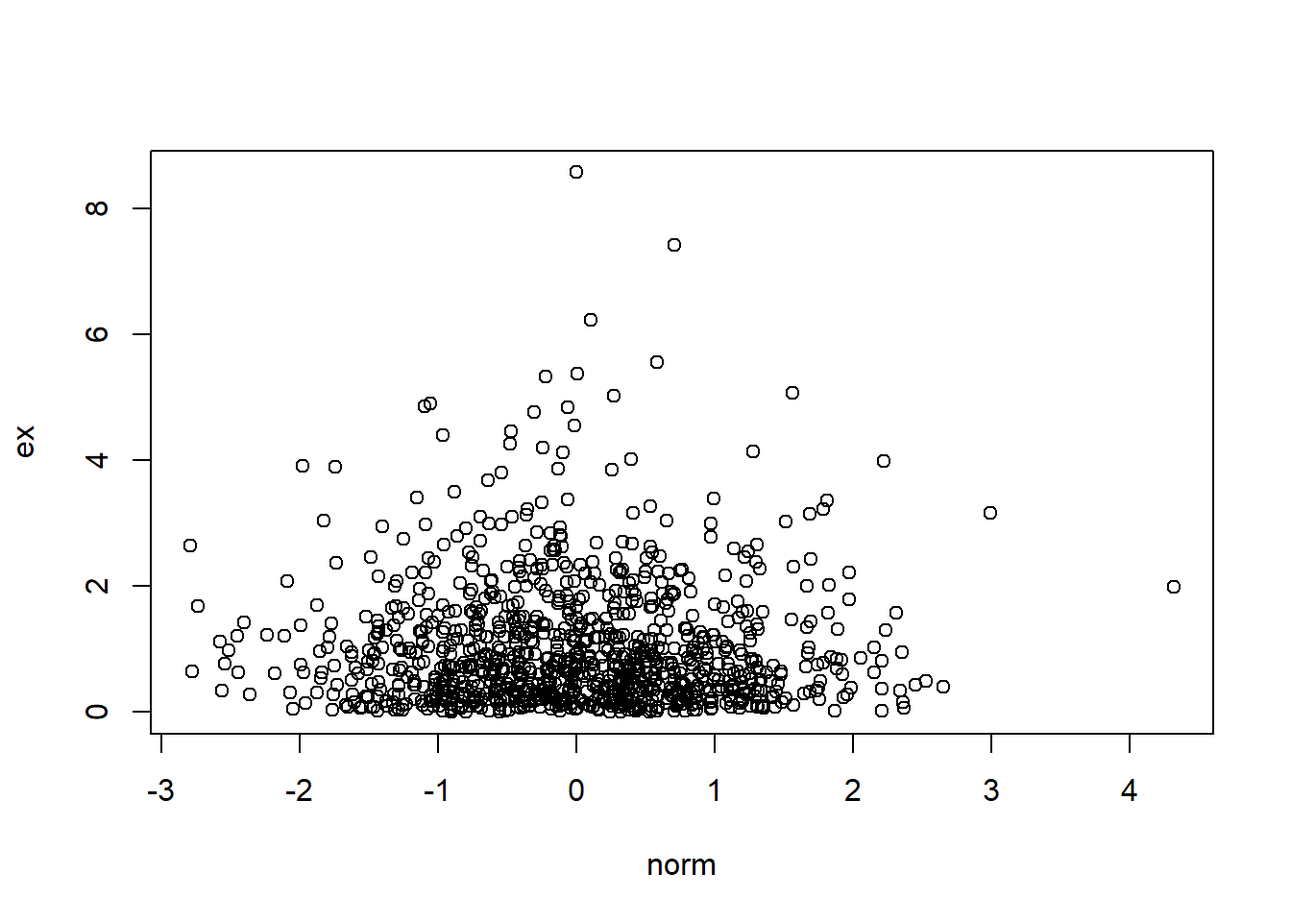
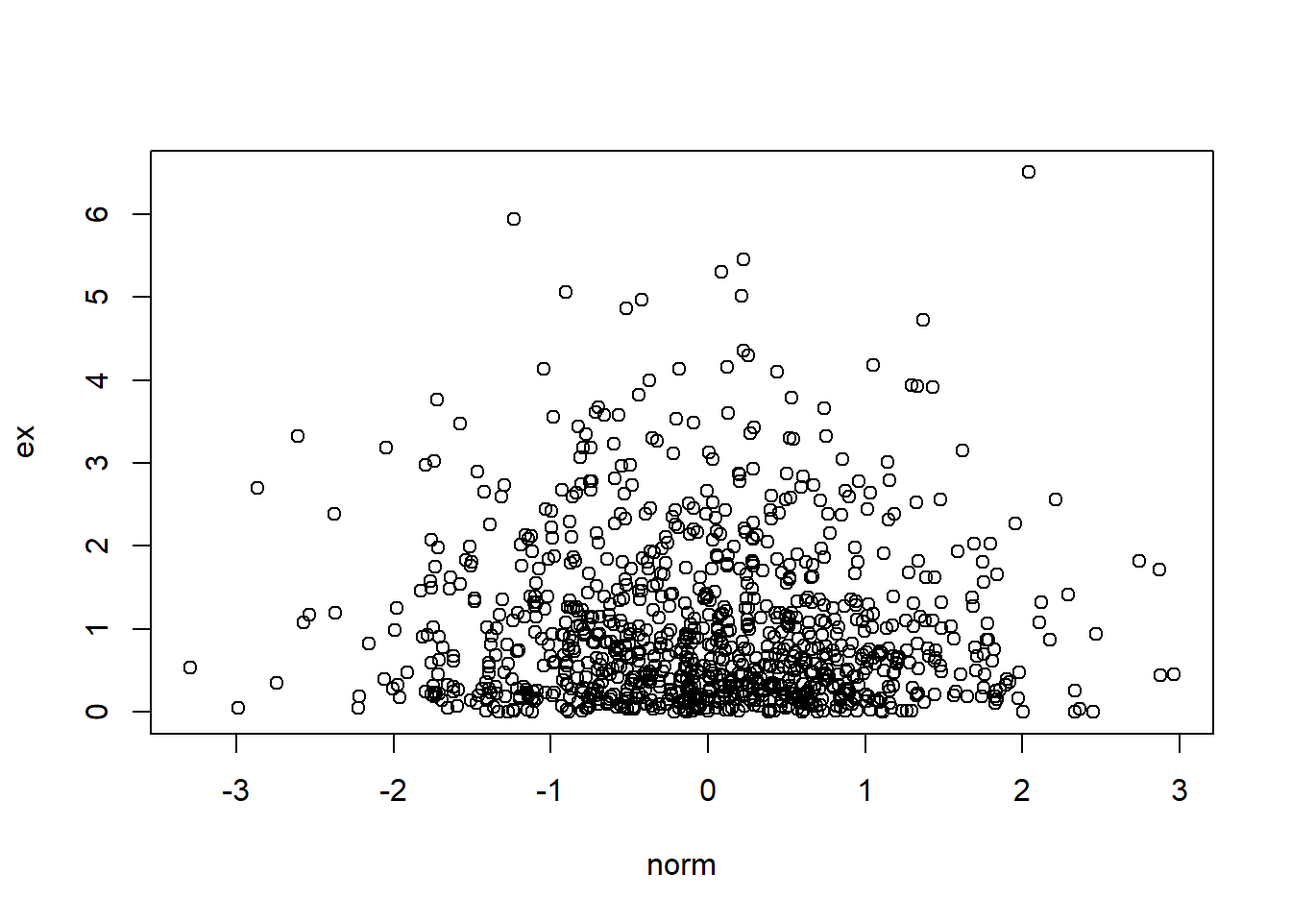
Update return level plots with confidence intervals

diff --git a/GEV.html b/GEV.html
@@ -240,17 +240,17 @@ $se
 [1] 0
 
 $nllh
-[1] 54.39127
+[1] 45.62547
 
 $mle
-[1]  2.4063985  0.3614291 -0.0294855
+[1]  2.25995963  0.33292887 -0.04189382
 
 $se
-[1] 0.04052278 0.02900888 0.07125537</code></pre>
+[1] 0.03763203 0.02716319 0.07596206</code></pre>
 </div>
 <div class="sourceCode cell-code" id="cb14"><pre class="sourceCode r code-with-copy"><code class="sourceCode r"><span id="cb14-1"><a href="#cb14-1" aria-hidden="true" tabindex="-1"></a>fit<span class="sc">$</span>mle</span></code><button title="Copy to Clipboard" class="code-copy-button"><i class="bi"></i></button></pre></div>
 <div class="cell-output cell-output-stdout">
-<pre><code>[1]  2.4063985  0.3614291 -0.0294855</code></pre>
+<pre><code>[1]  2.25995963  0.33292887 -0.04189382</code></pre>
 </div>
 <div class="sourceCode cell-code" id="cb16"><pre class="sourceCode r code-with-copy"><code class="sourceCode r"><span id="cb16-1"><a href="#cb16-1" aria-hidden="true" tabindex="-1"></a><span class="co">#gamGPDfit(x=df,datvar='y',threshold = 2.5,xiFrhs = xiFrhs)</span></span></code><button title="Copy to Clipboard" class="code-copy-button"><i class="bi"></i></button></pre></div>
 </div>
@@ -282,17 +282,17 @@ $se
 [1] 0
 
 $nllh
-[1] 54.39127
+[1] 45.62547
 
 $mle
-[1]  2.4063985  0.3614291 -0.0294855
+[1]  2.25995963  0.33292887 -0.04189382
 
 $se
-[1] 0.04052278 0.02900888 0.07125537</code></pre>
+[1] 0.03763203 0.02716319 0.07596206</code></pre>
 </div>
 <div class="sourceCode cell-code" id="cb21"><pre class="sourceCode r code-with-copy"><code class="sourceCode r"><span id="cb21-1"><a href="#cb21-1" aria-hidden="true" tabindex="-1"></a>fit<span class="sc">$</span>mle</span></code><button title="Copy to Clipboard" class="code-copy-button"><i class="bi"></i></button></pre></div>
 <div class="cell-output cell-output-stdout">
-<pre><code>[1]  2.4063985  0.3614291 -0.0294855</code></pre>
+<pre><code>[1]  2.25995963  0.33292887 -0.04189382</code></pre>
 </div>
 <div class="sourceCode cell-code" id="cb23"><pre class="sourceCode r code-with-copy"><code class="sourceCode r"><span id="cb23-1"><a href="#cb23-1" aria-hidden="true" tabindex="-1"></a>x_fit <span class="ot">&lt;-</span> <span class="fu">seq</span>(<span class="dv">70</span>,<span class="dv">200</span>,<span class="dv">1</span>)</span>
 <span id="cb23-2"><a href="#cb23-2" aria-hidden="true" tabindex="-1"></a>y_fit <span class="ot">&lt;-</span> <span class="fu">c</span>()</span>
@@ -333,7 +333,7 @@ $se
 <span id="cb28-3"><a href="#cb28-3" aria-hidden="true" tabindex="-1"></a></span>
 <span id="cb28-4"><a href="#cb28-4" aria-hidden="true" tabindex="-1"></a>u_1 <span class="sc">%&gt;%</span> <span class="fu">head</span>()</span></code><button title="Copy to Clipboard" class="code-copy-button"><i class="bi"></i></button></pre></div>
 <div class="cell-output cell-output-stdout">
-<pre><code>[1] 0.6232682 0.1676835 0.5488885 0.6451381 0.1123330 0.1110303</code></pre>
+<pre><code>[1] 0.6121441 0.8158624 0.1795660 0.8663926 0.8094380 0.4737421</code></pre>
 </div>
 <div class="sourceCode cell-code" id="cb30"><pre class="sourceCode r code-with-copy"><code class="sourceCode r"><span id="cb30-1"><a href="#cb30-1" aria-hidden="true" tabindex="-1"></a><span class="fu">plot</span>(u_1,u_2)</span></code><button title="Copy to Clipboard" class="code-copy-button"><i class="bi"></i></button></pre></div>
 <div class="cell-output-display">
@@ -584,19 +584,18 @@ Warning in log(1 + xi * ((x - mu)/sig)): NaNs produced</code></pre>
 </div>
 </div>
 <div class="cell">
-<div class="sourceCode cell-code" id="cb64"><pre class="sourceCode r code-with-copy"><code class="sourceCode r"><span id="cb64-1"><a href="#cb64-1" aria-hidden="true" tabindex="-1"></a>U_1 <span class="ot">&lt;-</span> <span class="fu">runif</span>(<span class="dv">10000</span>)</span>
-<span id="cb64-2"><a href="#cb64-2" aria-hidden="true" tabindex="-1"></a>X_1 <span class="ot">&lt;-</span> <span class="sc">-</span><span class="dv">1</span><span class="sc">/</span>(<span class="fu">log</span>(U_1))</span>
-<span id="cb64-3"><a href="#cb64-3" aria-hidden="true" tabindex="-1"></a>U_2 <span class="ot">&lt;-</span> <span class="fu">runif</span>(<span class="dv">10000</span>)</span>
-<span id="cb64-4"><a href="#cb64-4" aria-hidden="true" tabindex="-1"></a>X_2 <span class="ot">&lt;-</span> <span class="sc">-</span><span class="dv">1</span><span class="sc">/</span>(<span class="fu">log</span>(U_2))</span>
-<span id="cb64-5"><a href="#cb64-5" aria-hidden="true" tabindex="-1"></a><span class="fu">plot</span>(X_1<span class="sc">/</span><span class="dv">10000</span>,X_2<span class="sc">/</span><span class="dv">10000</span>)</span></code><button title="Copy to Clipboard" class="code-copy-button"><i class="bi"></i></button></pre></div>
+<div class="sourceCode cell-code" id="cb64"><pre class="sourceCode r code-with-copy"><code class="sourceCode r"><span id="cb64-1"><a href="#cb64-1" aria-hidden="true" tabindex="-1"></a>N <span class="ot">&lt;-</span> <span class="dv">1000</span></span>
+<span id="cb64-2"><a href="#cb64-2" aria-hidden="true" tabindex="-1"></a>U_1 <span class="ot">&lt;-</span> <span class="fu">runif</span>(N)</span>
+<span id="cb64-3"><a href="#cb64-3" aria-hidden="true" tabindex="-1"></a>X_1 <span class="ot">&lt;-</span> <span class="sc">-</span><span class="dv">1</span><span class="sc">/</span>(<span class="fu">log</span>(U_1))</span>
+<span id="cb64-4"><a href="#cb64-4" aria-hidden="true" tabindex="-1"></a>U_2 <span class="ot">&lt;-</span> <span class="fu">runif</span>(N)</span>
+<span id="cb64-5"><a href="#cb64-5" aria-hidden="true" tabindex="-1"></a>X_2 <span class="ot">&lt;-</span> <span class="sc">-</span><span class="dv">1</span><span class="sc">/</span>(<span class="fu">log</span>(U_2))</span>
+<span id="cb64-6"><a href="#cb64-6" aria-hidden="true" tabindex="-1"></a><span class="fu">plot</span>(X_1<span class="sc">/</span><span class="dv">1000</span>,X_2<span class="sc">/</span><span class="dv">1000</span>)</span></code><button title="Copy to Clipboard" class="code-copy-button"><i class="bi"></i></button></pre></div>
 <div class="cell-output-display">
 <p><img src="GEV_files/figure-html/unnamed-chunk-23-1.png" class="img-fluid" width="672"></p>
 </div>
-<div class="sourceCode cell-code" id="cb65"><pre class="sourceCode r code-with-copy"><code class="sourceCode r"><span id="cb65-1"><a href="#cb65-1" aria-hidden="true" tabindex="-1"></a>N <span class="ot">&lt;-</span> <span class="dv">10000</span></span>
-<span id="cb65-2"><a href="#cb65-2" aria-hidden="true" tabindex="-1"></a></span>
-<span id="cb65-3"><a href="#cb65-3" aria-hidden="true" tabindex="-1"></a>R <span class="ot">&lt;-</span> X_1<span class="sc">/</span>N<span class="sc">+</span>X_2<span class="sc">/</span>N</span>
-<span id="cb65-4"><a href="#cb65-4" aria-hidden="true" tabindex="-1"></a>W <span class="ot">&lt;-</span> (X_1<span class="sc">/</span>N)<span class="sc">/</span>(R)</span>
-<span id="cb65-5"><a href="#cb65-5" aria-hidden="true" tabindex="-1"></a><span class="fu">plot</span>(R,W)</span></code><button title="Copy to Clipboard" class="code-copy-button"><i class="bi"></i></button></pre></div>
+<div class="sourceCode cell-code" id="cb65"><pre class="sourceCode r code-with-copy"><code class="sourceCode r"><span id="cb65-1"><a href="#cb65-1" aria-hidden="true" tabindex="-1"></a>R <span class="ot">&lt;-</span> X_1<span class="sc">/</span>N<span class="sc">+</span>X_2<span class="sc">/</span>N</span>
+<span id="cb65-2"><a href="#cb65-2" aria-hidden="true" tabindex="-1"></a>W <span class="ot">&lt;-</span> (X_1<span class="sc">/</span>N)<span class="sc">/</span>(R)</span>
+<span id="cb65-3"><a href="#cb65-3" aria-hidden="true" tabindex="-1"></a><span class="fu">plot</span>(R,W)</span></code><button title="Copy to Clipboard" class="code-copy-button"><i class="bi"></i></button></pre></div>
 <div class="cell-output-display">
 <p><img src="GEV_files/figure-html/unnamed-chunk-23-2.png" class="img-fluid" width="672"></p>
 </div>
@@ -695,8 +694,184 @@ Warning in log(1 + xi * ((x - mu)/sig)): NaNs produced</code></pre>
 <div class="cell-output-display">
 <p><img src="GEV_files/figure-html/unnamed-chunk-27-1.png" class="img-fluid" width="672"></p>
 </div>
+<div class="sourceCode cell-code" id="cb71"><pre class="sourceCode r code-with-copy"><code class="sourceCode r"><span id="cb71-1"><a href="#cb71-1" aria-hidden="true" tabindex="-1"></a><span class="fu">ggplot</span>(df) <span class="sc">+</span> <span class="fu">geom_point</span>(<span class="fu">aes</span>(<span class="at">x=</span>X, <span class="at">y=</span>Y))</span></code><button title="Copy to Clipboard" class="code-copy-button"><i class="bi"></i></button></pre></div>
+<div class="cell-output-display">
+<p><img src="GEV_files/figure-html/unnamed-chunk-27-2.png" class="img-fluid" width="672"></p>
+</div>
 </div>
 <p>This makes sense. For example, <span class="math inline">\(z=1\)</span> corresponds to 0.3678794 for <span class="math inline">\(a=0\)</span> and 0.6065307 for <span class="math inline">\(a=1\)</span>. Because the quantile is lower for <span class="math inline">\(a=0\)</span>, the distribution has more values larger then <span class="math inline">\(1\)</span> than the case when <span class="math inline">\(a=1\)</span>.</p>
+</section>
+<section id="extend-the-idea-to-a-series-of-coefficients" class="level3">
+<h3 class="anchored" data-anchor-id="extend-the-idea-to-a-series-of-coefficients">Extend the idea to a series of coefficients</h3>
+<p>Define <span class="math inline">\(X_1=\max \left\{ a_1Y_1,a_2Y_2,\dots, a_dY_d \right\}\)</span> and <span class="math inline">\(X_2=\max \left\{ b_1Y_1,b_2Y_2,\dots, b_dY_d \right\}\)</span>. Further assume that <span class="math inline">\(Y_i\)</span> are independent with Fréchet distribution. Varying parameters are length <span class="math inline">\(d\)</span> taking max over, sequences <span class="math inline">\(a\)</span> and <span class="math inline">\(b\)</span>.</p>
+<div class="cell">
+<div class="sourceCode cell-code" id="cb72"><pre class="sourceCode r code-with-copy"><code class="sourceCode r"><span id="cb72-1"><a href="#cb72-1" aria-hidden="true" tabindex="-1"></a>d<span class="ot">=</span><span class="dv">5</span></span>
+<span id="cb72-2"><a href="#cb72-2" aria-hidden="true" tabindex="-1"></a><span class="co"># generate Y</span></span>
+<span id="cb72-3"><a href="#cb72-3" aria-hidden="true" tabindex="-1"></a>Y <span class="ot">&lt;-</span> <span class="fu">c</span>()</span>
+<span id="cb72-4"><a href="#cb72-4" aria-hidden="true" tabindex="-1"></a><span class="cf">for</span> (i <span class="cf">in</span> <span class="dv">1</span><span class="sc">:</span><span class="dv">50</span>) {</span>
+<span id="cb72-5"><a href="#cb72-5" aria-hidden="true" tabindex="-1"></a>Y[i] <span class="ot">&lt;-</span> <span class="sc">-</span><span class="dv">1</span><span class="sc">/</span>(<span class="fu">log</span>(U[i])<span class="sc">*</span>(a<span class="sc">+</span><span class="dv">1</span>))  </span>
+<span id="cb72-6"><a href="#cb72-6" aria-hidden="true" tabindex="-1"></a>}</span>
+<span id="cb72-7"><a href="#cb72-7" aria-hidden="true" tabindex="-1"></a>X[<span class="dv">1</span><span class="sc">:</span>(d<span class="dv">-1</span>)] <span class="ot">&lt;-</span> Y[<span class="dv">1</span><span class="sc">:</span>(d<span class="dv">-1</span>)]</span>
+<span id="cb72-8"><a href="#cb72-8" aria-hidden="true" tabindex="-1"></a><span class="cf">for</span> (i <span class="cf">in</span> d<span class="sc">:</span><span class="dv">50</span>) {</span>
+<span id="cb72-9"><a href="#cb72-9" aria-hidden="true" tabindex="-1"></a>  X[i] <span class="ot">&lt;-</span> <span class="fu">max</span>(Y[(i<span class="sc">-</span>(d<span class="dv">-1</span>))<span class="sc">:</span>i])</span>
+<span id="cb72-10"><a href="#cb72-10" aria-hidden="true" tabindex="-1"></a>}</span>
+<span id="cb72-11"><a href="#cb72-11" aria-hidden="true" tabindex="-1"></a></span>
+<span id="cb72-12"><a href="#cb72-12" aria-hidden="true" tabindex="-1"></a>df <span class="ot">&lt;-</span> <span class="fu">data.frame</span>(X,Y,<span class="at">ite=</span><span class="dv">1</span><span class="sc">:</span><span class="dv">50</span>)</span>
+<span id="cb72-13"><a href="#cb72-13" aria-hidden="true" tabindex="-1"></a>x <span class="ot">&lt;-</span> <span class="fu">ggplot</span>(df) <span class="sc">+</span> <span class="fu">geom_point</span>(<span class="fu">aes</span>(<span class="at">x=</span>ite, <span class="at">y=</span>X))</span>
+<span id="cb72-14"><a href="#cb72-14" aria-hidden="true" tabindex="-1"></a>y <span class="ot">&lt;-</span> <span class="fu">ggplot</span>(df) <span class="sc">+</span> <span class="fu">geom_point</span>(<span class="fu">aes</span>(<span class="at">x=</span>ite, <span class="at">y=</span>Y))</span>
+<span id="cb72-15"><a href="#cb72-15" aria-hidden="true" tabindex="-1"></a><span class="fu">grid.arrange</span>(x,y,<span class="at">ncol=</span><span class="dv">2</span>)</span></code><button title="Copy to Clipboard" class="code-copy-button"><i class="bi"></i></button></pre></div>
+<div class="cell-output-display">
+<p><img src="GEV_files/figure-html/unnamed-chunk-28-1.png" class="img-fluid" width="672"></p>
+</div>
+<div class="sourceCode cell-code" id="cb73"><pre class="sourceCode r code-with-copy"><code class="sourceCode r"><span id="cb73-1"><a href="#cb73-1" aria-hidden="true" tabindex="-1"></a><span class="co"># define a_1,...,a_50</span></span>
+<span id="cb73-2"><a href="#cb73-2" aria-hidden="true" tabindex="-1"></a><span class="co">#a_seq &lt;- seq(1,0.1,length.out=50)</span></span>
+<span id="cb73-3"><a href="#cb73-3" aria-hidden="true" tabindex="-1"></a><span class="co"># define b_1,...,b_50</span></span>
+<span id="cb73-4"><a href="#cb73-4" aria-hidden="true" tabindex="-1"></a><span class="co">#b_seq &lt;- seq(1,0.5,length.out=50)</span></span>
+<span id="cb73-5"><a href="#cb73-5" aria-hidden="true" tabindex="-1"></a><span class="fu">ggplot</span>(df) <span class="sc">+</span> <span class="fu">geom_point</span>(<span class="fu">aes</span>(<span class="at">x=</span>X, <span class="at">y=</span>Y))</span></code><button title="Copy to Clipboard" class="code-copy-button"><i class="bi"></i></button></pre></div>
+<div class="cell-output-display">
+<p><img src="GEV_files/figure-html/unnamed-chunk-28-2.png" class="img-fluid" width="672"></p>
+</div>
+</div>
+<p>Try different values of <span class="math inline">\(d\)</span>.</p>
+<div class="cell">
+<div class="sourceCode cell-code" id="cb74"><pre class="sourceCode r code-with-copy"><code class="sourceCode r"><span id="cb74-1"><a href="#cb74-1" aria-hidden="true" tabindex="-1"></a><span class="fu">set.seed</span>(<span class="dv">1</span>)</span>
+<span id="cb74-2"><a href="#cb74-2" aria-hidden="true" tabindex="-1"></a>d <span class="ot">&lt;-</span> <span class="dv">3</span></span>
+<span id="cb74-3"><a href="#cb74-3" aria-hidden="true" tabindex="-1"></a>N <span class="ot">&lt;-</span> <span class="dv">50</span></span>
+<span id="cb74-4"><a href="#cb74-4" aria-hidden="true" tabindex="-1"></a>U <span class="ot">&lt;-</span> <span class="fu">runif</span>(d<span class="sc">*</span>N)</span>
+<span id="cb74-5"><a href="#cb74-5" aria-hidden="true" tabindex="-1"></a>a <span class="ot">&lt;-</span> <span class="fu">rep</span>(<span class="dv">1</span><span class="sc">/</span><span class="dv">3</span>,d)</span>
+<span id="cb74-6"><a href="#cb74-6" aria-hidden="true" tabindex="-1"></a>b <span class="ot">&lt;-</span> (<span class="dv">1</span><span class="sc">:</span><span class="dv">3</span>)<span class="sc">/</span><span class="dv">6</span></span>
+<span id="cb74-7"><a href="#cb74-7" aria-hidden="true" tabindex="-1"></a><span class="co"># generate Y</span></span>
+<span id="cb74-8"><a href="#cb74-8" aria-hidden="true" tabindex="-1"></a>Y <span class="ot">&lt;-</span> <span class="fu">c</span>()</span>
+<span id="cb74-9"><a href="#cb74-9" aria-hidden="true" tabindex="-1"></a>Y <span class="ot">&lt;-</span> <span class="sc">-</span><span class="dv">1</span><span class="sc">/</span>(<span class="fu">log</span>(U) ) </span>
+<span id="cb74-10"><a href="#cb74-10" aria-hidden="true" tabindex="-1"></a></span>
+<span id="cb74-11"><a href="#cb74-11" aria-hidden="true" tabindex="-1"></a><span class="co"># generate X</span></span>
+<span id="cb74-12"><a href="#cb74-12" aria-hidden="true" tabindex="-1"></a>X_1 <span class="ot">&lt;-</span> <span class="fu">c</span>()</span>
+<span id="cb74-13"><a href="#cb74-13" aria-hidden="true" tabindex="-1"></a>X_2 <span class="ot">&lt;-</span> <span class="fu">c</span>()</span>
+<span id="cb74-14"><a href="#cb74-14" aria-hidden="true" tabindex="-1"></a></span>
+<span id="cb74-15"><a href="#cb74-15" aria-hidden="true" tabindex="-1"></a><span class="cf">for</span> (j <span class="cf">in</span> <span class="dv">1</span><span class="sc">:</span>N) {</span>
+<span id="cb74-16"><a href="#cb74-16" aria-hidden="true" tabindex="-1"></a>X_1[j] <span class="ot">&lt;-</span> <span class="fu">max</span>(Y[(d<span class="sc">*</span>(j<span class="dv">-1</span>)<span class="sc">+</span><span class="dv">1</span>)<span class="sc">:</span>(d<span class="sc">*</span>j)]<span class="sc">*</span>a)<span class="sc">/</span>N</span>
+<span id="cb74-17"><a href="#cb74-17" aria-hidden="true" tabindex="-1"></a>X_2[j] <span class="ot">&lt;-</span> <span class="fu">max</span>(Y[(d<span class="sc">*</span>(j<span class="dv">-1</span>)<span class="sc">+</span><span class="dv">1</span>)<span class="sc">:</span>(d<span class="sc">*</span>j)]<span class="sc">*</span>b)<span class="sc">/</span>N</span>
+<span id="cb74-18"><a href="#cb74-18" aria-hidden="true" tabindex="-1"></a>}</span>
+<span id="cb74-19"><a href="#cb74-19" aria-hidden="true" tabindex="-1"></a></span>
+<span id="cb74-20"><a href="#cb74-20" aria-hidden="true" tabindex="-1"></a><span class="co"># it is better to plot X_1/N against X_2/N</span></span>
+<span id="cb74-21"><a href="#cb74-21" aria-hidden="true" tabindex="-1"></a><span class="fu">plot</span>(X_1,X_2)</span></code><button title="Copy to Clipboard" class="code-copy-button"><i class="bi"></i></button></pre></div>
+<div class="cell-output-display">
+<p><img src="GEV_files/figure-html/unnamed-chunk-29-1.png" class="img-fluid" width="672"></p>
+</div>
+<div class="sourceCode cell-code" id="cb75"><pre class="sourceCode r code-with-copy"><code class="sourceCode r"><span id="cb75-1"><a href="#cb75-1" aria-hidden="true" tabindex="-1"></a>df1 <span class="ot">&lt;-</span> <span class="fu">data.frame</span>(<span class="at">X_1=</span>X_1,<span class="at">X_2=</span>X_2,<span class="at">uni=</span><span class="fu">seq</span>(<span class="fl">0.02</span>,<span class="dv">1</span>,<span class="fl">0.02</span>),</span>
+<span id="cb75-2"><a href="#cb75-2" aria-hidden="true" tabindex="-1"></a>             <span class="at">uni_3=</span>  <span class="fu">seq</span>(<span class="fl">0.02</span>,<span class="dv">5</span><span class="sc">/</span><span class="dv">6</span>,<span class="at">length.out=</span><span class="dv">50</span>), </span>
+<span id="cb75-3"><a href="#cb75-3" aria-hidden="true" tabindex="-1"></a>             <span class="at">u_x=</span><span class="fu">seq</span>(<span class="dv">0</span>,<span class="fl">0.1</span>,<span class="at">length.out=</span><span class="dv">50</span>),</span>
+<span id="cb75-4"><a href="#cb75-4" aria-hidden="true" tabindex="-1"></a>             <span class="at">u_y=</span><span class="fl">0.1</span><span class="sc">-</span><span class="fu">seq</span>(<span class="dv">0</span>,<span class="fl">0.1</span>,<span class="at">length.out=</span><span class="dv">50</span>),</span>
+<span id="cb75-5"><a href="#cb75-5" aria-hidden="true" tabindex="-1"></a>             <span class="at">line_1=</span><span class="fu">seq</span>(<span class="fl">0.02</span>,<span class="dv">1</span>,<span class="fl">0.02</span>)<span class="sc">*</span>(<span class="dv">1</span><span class="sc">/</span><span class="dv">2</span>),<span class="at">line_2=</span><span class="fu">seq</span>(<span class="fl">0.02</span>,<span class="dv">1</span>,<span class="fl">0.02</span>)<span class="sc">*</span>(<span class="dv">1</span>),<span class="at">line_3=</span><span class="fu">seq</span>(<span class="fl">0.02</span>,<span class="dv">5</span><span class="sc">/</span><span class="dv">6</span>,<span class="at">length.out=</span><span class="dv">50</span>)<span class="sc">*</span>(<span class="dv">3</span><span class="sc">/</span><span class="dv">2</span>))</span>
+<span id="cb75-6"><a href="#cb75-6" aria-hidden="true" tabindex="-1"></a>df1 <span class="ot">&lt;-</span>df1 <span class="sc">%&gt;%</span>  <span class="fu">mutate</span>(<span class="at">above_u=</span>(X_1<span class="sc">+</span>X_2<span class="sc">&gt;</span><span class="fl">0.1</span>)) <span class="sc">%&gt;%</span> <span class="fu">mutate</span>(<span class="at">N=</span><span class="fu">rep</span>(<span class="fu">paste0</span>(<span class="st">"n="</span>,<span class="fu">nrow</span>(df1)),<span class="fu">nrow</span>(df1)))</span>
+<span id="cb75-7"><a href="#cb75-7" aria-hidden="true" tabindex="-1"></a></span>
+<span id="cb75-8"><a href="#cb75-8" aria-hidden="true" tabindex="-1"></a><span class="do">### repeat for larger sample size</span></span>
+<span id="cb75-9"><a href="#cb75-9" aria-hidden="true" tabindex="-1"></a>N <span class="ot">&lt;-</span> <span class="dv">50000</span></span>
+<span id="cb75-10"><a href="#cb75-10" aria-hidden="true" tabindex="-1"></a>U <span class="ot">&lt;-</span> <span class="fu">runif</span>(d<span class="sc">*</span>N)</span>
+<span id="cb75-11"><a href="#cb75-11" aria-hidden="true" tabindex="-1"></a>a <span class="ot">&lt;-</span> <span class="fu">rep</span>(<span class="dv">1</span><span class="sc">/</span><span class="dv">3</span>,d)</span>
+<span id="cb75-12"><a href="#cb75-12" aria-hidden="true" tabindex="-1"></a>b <span class="ot">&lt;-</span> (<span class="dv">1</span><span class="sc">:</span><span class="dv">3</span>)<span class="sc">/</span><span class="dv">6</span></span>
+<span id="cb75-13"><a href="#cb75-13" aria-hidden="true" tabindex="-1"></a><span class="co"># generate Y</span></span>
+<span id="cb75-14"><a href="#cb75-14" aria-hidden="true" tabindex="-1"></a>Y <span class="ot">&lt;-</span> <span class="fu">c</span>()</span>
+<span id="cb75-15"><a href="#cb75-15" aria-hidden="true" tabindex="-1"></a>Y <span class="ot">&lt;-</span> <span class="sc">-</span><span class="dv">1</span><span class="sc">/</span>(<span class="fu">log</span>(U) ) </span>
+<span id="cb75-16"><a href="#cb75-16" aria-hidden="true" tabindex="-1"></a></span>
+<span id="cb75-17"><a href="#cb75-17" aria-hidden="true" tabindex="-1"></a><span class="co"># generate X</span></span>
+<span id="cb75-18"><a href="#cb75-18" aria-hidden="true" tabindex="-1"></a>X_1 <span class="ot">&lt;-</span> <span class="fu">c</span>()</span>
+<span id="cb75-19"><a href="#cb75-19" aria-hidden="true" tabindex="-1"></a>X_2 <span class="ot">&lt;-</span> <span class="fu">c</span>()</span>
+<span id="cb75-20"><a href="#cb75-20" aria-hidden="true" tabindex="-1"></a></span>
+<span id="cb75-21"><a href="#cb75-21" aria-hidden="true" tabindex="-1"></a><span class="cf">for</span> (j <span class="cf">in</span> <span class="dv">1</span><span class="sc">:</span>N) {</span>
+<span id="cb75-22"><a href="#cb75-22" aria-hidden="true" tabindex="-1"></a>X_1[j] <span class="ot">&lt;-</span> <span class="fu">max</span>(Y[(d<span class="sc">*</span>(j<span class="dv">-1</span>)<span class="sc">+</span><span class="dv">1</span>)<span class="sc">:</span>(d<span class="sc">*</span>j)]<span class="sc">*</span>a)<span class="sc">/</span>N</span>
+<span id="cb75-23"><a href="#cb75-23" aria-hidden="true" tabindex="-1"></a>X_2[j] <span class="ot">&lt;-</span> <span class="fu">max</span>(Y[(d<span class="sc">*</span>(j<span class="dv">-1</span>)<span class="sc">+</span><span class="dv">1</span>)<span class="sc">:</span>(d<span class="sc">*</span>j)]<span class="sc">*</span>b)<span class="sc">/</span>N</span>
+<span id="cb75-24"><a href="#cb75-24" aria-hidden="true" tabindex="-1"></a>}</span>
+<span id="cb75-25"><a href="#cb75-25" aria-hidden="true" tabindex="-1"></a>df2 <span class="ot">&lt;-</span> <span class="fu">data.frame</span>(<span class="at">X_1=</span>X_1,<span class="at">X_2=</span>X_2,<span class="at">uni=</span><span class="fu">seq</span>(<span class="fl">0.02</span>,<span class="dv">1</span>,<span class="at">length.out=</span>N),</span>
+<span id="cb75-26"><a href="#cb75-26" aria-hidden="true" tabindex="-1"></a>             <span class="at">uni_3=</span>  <span class="fu">seq</span>(<span class="fl">0.02</span>,<span class="dv">5</span><span class="sc">/</span><span class="dv">6</span>,<span class="at">length.out=</span>N), </span>
+<span id="cb75-27"><a href="#cb75-27" aria-hidden="true" tabindex="-1"></a>             <span class="at">u_x=</span><span class="fu">seq</span>(<span class="dv">0</span>,<span class="fl">0.1</span>,<span class="at">length.out=</span>N),</span>
+<span id="cb75-28"><a href="#cb75-28" aria-hidden="true" tabindex="-1"></a>             <span class="at">u_y=</span><span class="fl">0.1</span><span class="sc">-</span><span class="fu">seq</span>(<span class="dv">0</span>,<span class="fl">0.1</span>,<span class="at">length.out=</span>N),</span>
+<span id="cb75-29"><a href="#cb75-29" aria-hidden="true" tabindex="-1"></a>             <span class="at">line_1=</span><span class="fu">seq</span>(<span class="fl">0.02</span>,<span class="dv">1</span>,<span class="at">length.out=</span>N)<span class="sc">*</span>(<span class="dv">1</span><span class="sc">/</span><span class="dv">2</span>),<span class="at">line_2=</span><span class="fu">seq</span>(<span class="fl">0.02</span>,<span class="dv">1</span>,<span class="at">length.out=</span>N)<span class="sc">*</span>(<span class="dv">1</span>),<span class="at">line_3=</span><span class="fu">seq</span>(<span class="fl">0.02</span>,<span class="dv">5</span><span class="sc">/</span><span class="dv">6</span>,<span class="at">length.out=</span>N)<span class="sc">*</span>(<span class="dv">3</span><span class="sc">/</span><span class="dv">2</span>))</span>
+<span id="cb75-30"><a href="#cb75-30" aria-hidden="true" tabindex="-1"></a>df2 <span class="ot">&lt;-</span>df2 <span class="sc">%&gt;%</span>  <span class="fu">mutate</span>(<span class="at">above_u=</span>(X_1<span class="sc">+</span>X_2<span class="sc">&gt;</span><span class="fl">0.1</span>)) <span class="sc">%&gt;%</span> <span class="fu">mutate</span>(<span class="at">N=</span><span class="fu">rep</span>(<span class="fu">paste0</span>(<span class="st">"n="</span>,<span class="fu">nrow</span>(df2)),<span class="fu">nrow</span>(df2)))</span>
+<span id="cb75-31"><a href="#cb75-31" aria-hidden="true" tabindex="-1"></a></span>
+<span id="cb75-32"><a href="#cb75-32" aria-hidden="true" tabindex="-1"></a>df_bind <span class="ot">&lt;-</span> <span class="fu">rbind</span>(df1,df2) <span class="sc">%&gt;%</span> <span class="fu">mutate</span>(<span class="at">N=</span><span class="fu">as.factor</span>(N))</span>
+<span id="cb75-33"><a href="#cb75-33" aria-hidden="true" tabindex="-1"></a></span>
+<span id="cb75-34"><a href="#cb75-34" aria-hidden="true" tabindex="-1"></a><span class="fu">ggplot</span>(df_bind) <span class="sc">+</span> <span class="fu">geom_point</span>(<span class="fu">aes</span>(<span class="at">x=</span>X_1, <span class="at">y=</span>X_2,<span class="at">col=</span>above_u),<span class="at">alpha=</span><span class="fl">0.5</span>) <span class="sc">+</span></span>
+<span id="cb75-35"><a href="#cb75-35" aria-hidden="true" tabindex="-1"></a>  <span class="fu">scale_color_manual</span>(<span class="at">values =</span> <span class="fu">c</span>(<span class="st">"TRUE"</span> <span class="ot">=</span> <span class="st">"black"</span>,</span>
+<span id="cb75-36"><a href="#cb75-36" aria-hidden="true" tabindex="-1"></a>                                <span class="st">"FALSE"</span><span class="ot">=</span><span class="st">"#C11432"</span>)) <span class="sc">+</span></span>
+<span id="cb75-37"><a href="#cb75-37" aria-hidden="true" tabindex="-1"></a>   <span class="fu">labs</span>(<span class="at">color=</span><span class="fu">TeX</span>(<span class="st">'Above threshold $u$'</span>)) <span class="sc">+</span></span>
+<span id="cb75-38"><a href="#cb75-38" aria-hidden="true" tabindex="-1"></a>  <span class="fu">xlab</span>(<span class="fu">TeX</span>(<span class="st">"$X_1/n$"</span>)) <span class="sc">+</span> <span class="fu">ylab</span>(<span class="fu">TeX</span>(<span class="st">"$X_2/n$"</span>))<span class="sc">+</span></span>
+<span id="cb75-39"><a href="#cb75-39" aria-hidden="true" tabindex="-1"></a>  <span class="fu">geom_line</span>(<span class="fu">aes</span>(<span class="at">x=</span>uni,<span class="at">y=</span>line_1),<span class="at">alpha=</span><span class="fl">0.3</span>) <span class="sc">+</span></span>
+<span id="cb75-40"><a href="#cb75-40" aria-hidden="true" tabindex="-1"></a>    <span class="fu">geom_line</span>(<span class="fu">aes</span>(<span class="at">x=</span>uni,<span class="at">y=</span>line_2),<span class="at">alpha=</span><span class="fl">0.3</span>) <span class="sc">+</span></span>
+<span id="cb75-41"><a href="#cb75-41" aria-hidden="true" tabindex="-1"></a>    <span class="fu">geom_line</span>(<span class="fu">aes</span>(<span class="at">x=</span>uni_3,<span class="at">y=</span>line_3),<span class="at">alpha=</span><span class="fl">0.3</span>) <span class="sc">+</span></span>
+<span id="cb75-42"><a href="#cb75-42" aria-hidden="true" tabindex="-1"></a>   <span class="fu">geom_line</span>(<span class="fu">aes</span>(<span class="at">x=</span>u_x,<span class="at">y=</span>u_y),<span class="at">col=</span><span class="st">"#C11432"</span>,<span class="at">alpha=</span><span class="fl">0.6</span>,<span class="at">linetype=</span><span class="st">"dashed"</span>) <span class="sc">+</span></span>
+<span id="cb75-43"><a href="#cb75-43" aria-hidden="true" tabindex="-1"></a>  <span class="fu">annotate</span>(<span class="st">"text"</span>,<span class="at">x=</span><span class="fl">0.12</span>,<span class="at">y=</span><span class="fl">0.05</span>,<span class="at">label=</span><span class="st">"u"</span>,<span class="at">col=</span><span class="st">"#C11432"</span>) <span class="sc">+</span></span>
+<span id="cb75-44"><a href="#cb75-44" aria-hidden="true" tabindex="-1"></a>  <span class="fu">coord_fixed</span>()<span class="sc">+</span> <span class="fu">facet_wrap</span>(<span class="fu">vars</span>(N))   <span class="sc">+</span></span>
+<span id="cb75-45"><a href="#cb75-45" aria-hidden="true" tabindex="-1"></a>  <span class="fu">theme_bw</span>() <span class="sc">+</span></span>
+<span id="cb75-46"><a href="#cb75-46" aria-hidden="true" tabindex="-1"></a>  <span class="fu">theme</span>(<span class="at">panel.spacing =</span> <span class="fu">unit</span>(<span class="dv">2</span>, <span class="st">"lines"</span>),</span>
+<span id="cb75-47"><a href="#cb75-47" aria-hidden="true" tabindex="-1"></a>        <span class="at">panel.grid.major =</span> <span class="fu">element_blank</span>(),</span>
+<span id="cb75-48"><a href="#cb75-48" aria-hidden="true" tabindex="-1"></a>        <span class="at">panel.grid.minor =</span> <span class="fu">element_blank</span>(),</span>
+<span id="cb75-49"><a href="#cb75-49" aria-hidden="true" tabindex="-1"></a>        <span class="at">strip.background =</span> <span class="fu">element_blank</span>(),</span>
+<span id="cb75-50"><a href="#cb75-50" aria-hidden="true" tabindex="-1"></a>        <span class="at">panel.border =</span> <span class="fu">element_rect</span>(<span class="at">colour =</span> <span class="st">"black"</span>, <span class="at">fill =</span> <span class="cn">NA</span>))</span></code><button title="Copy to Clipboard" class="code-copy-button"><i class="bi"></i></button></pre></div>
+<div class="cell-output-display">
+<p><img src="GEV_files/figure-html/unnamed-chunk-29-2.png" class="img-fluid" width="672"></p>
+</div>
+</div>
+<p>Plot only above threshold?</p>
+<p>Plot radial and angular components.</p>
+<div class="cell">
+<div class="sourceCode cell-code" id="cb76"><pre class="sourceCode r code-with-copy"><code class="sourceCode r"><span id="cb76-1"><a href="#cb76-1" aria-hidden="true" tabindex="-1"></a>df3 <span class="ot">&lt;-</span> <span class="fu">data.frame</span>(<span class="at">r=</span>(df1<span class="sc">$</span>X_1<span class="sc">+</span>df1<span class="sc">$</span>X_2),<span class="at">w=</span>df1<span class="sc">$</span>X_1<span class="sc">/</span>(df1<span class="sc">$</span>X_1<span class="sc">+</span>df1<span class="sc">$</span>X_2),<span class="at">above_u=</span>df1<span class="sc">$</span>above_u)<span class="sc">%&gt;%</span> <span class="fu">mutate</span>(<span class="at">N=</span><span class="fu">rep</span>(<span class="fu">paste0</span>(<span class="st">"n="</span>,<span class="fu">nrow</span>(df1)),<span class="fu">nrow</span>(df1))) <span class="sc">%&gt;%</span> </span>
+<span id="cb76-2"><a href="#cb76-2" aria-hidden="true" tabindex="-1"></a>  <span class="fu">mutate</span>(<span class="at">u_x=</span><span class="fu">seq</span>(<span class="dv">0</span>,<span class="dv">1</span>,<span class="at">length.out=</span><span class="fu">nrow</span>(df1))) <span class="sc">%&gt;%</span> </span>
+<span id="cb76-3"><a href="#cb76-3" aria-hidden="true" tabindex="-1"></a>  <span class="fu">mutate</span>(<span class="at">u_y=</span><span class="fu">rep</span>(<span class="fl">0.1</span>,<span class="fu">nrow</span>(df1)))</span>
+<span id="cb76-4"><a href="#cb76-4" aria-hidden="true" tabindex="-1"></a></span>
+<span id="cb76-5"><a href="#cb76-5" aria-hidden="true" tabindex="-1"></a>df4 <span class="ot">&lt;-</span> <span class="fu">data.frame</span>(<span class="at">r=</span>(df2<span class="sc">$</span>X_1<span class="sc">+</span>df2<span class="sc">$</span>X_2),<span class="at">w=</span>df2<span class="sc">$</span>X_1<span class="sc">/</span>(df2<span class="sc">$</span>X_1<span class="sc">+</span>df2<span class="sc">$</span>X_2),<span class="at">above_u=</span>df2<span class="sc">$</span>above_u)<span class="sc">%&gt;%</span> <span class="fu">mutate</span>(<span class="at">N=</span><span class="fu">rep</span>(<span class="fu">paste0</span>(<span class="st">"n="</span>,<span class="fu">nrow</span>(df2)),<span class="fu">nrow</span>(df2))) <span class="sc">%&gt;%</span> </span>
+<span id="cb76-6"><a href="#cb76-6" aria-hidden="true" tabindex="-1"></a>   <span class="fu">mutate</span>(<span class="at">u_x=</span><span class="fu">seq</span>(<span class="dv">0</span>,<span class="dv">1</span>,<span class="at">length.out=</span><span class="fu">nrow</span>(df2))) <span class="sc">%&gt;%</span> </span>
+<span id="cb76-7"><a href="#cb76-7" aria-hidden="true" tabindex="-1"></a>  <span class="fu">mutate</span>(<span class="at">u_y=</span><span class="fu">rep</span>(<span class="fl">0.1</span>,<span class="fu">nrow</span>(df2)))</span>
+<span id="cb76-8"><a href="#cb76-8" aria-hidden="true" tabindex="-1"></a>df_bind <span class="ot">&lt;-</span> <span class="fu">rbind</span>(df3,df4)</span>
+<span id="cb76-9"><a href="#cb76-9" aria-hidden="true" tabindex="-1"></a></span>
+<span id="cb76-10"><a href="#cb76-10" aria-hidden="true" tabindex="-1"></a><span class="fu">ggplot</span>(df_bind) <span class="sc">+</span> <span class="fu">geom_point</span>(<span class="at">data=</span>df_bind,<span class="fu">aes</span>(<span class="at">x=</span>w,<span class="at">y=</span><span class="fu">log</span>(r),<span class="at">col=</span>above_u),<span class="at">alpha=</span><span class="fl">0.5</span>)<span class="sc">+</span></span>
+<span id="cb76-11"><a href="#cb76-11" aria-hidden="true" tabindex="-1"></a>  <span class="fu">geom_line</span>(<span class="at">data=</span>df_bind,<span class="fu">aes</span>(<span class="at">x=</span>u_x,<span class="at">y=</span><span class="fu">log</span>(u_y)),<span class="at">col=</span><span class="st">"#C11432"</span>,<span class="at">alpha=</span><span class="fl">0.6</span>,<span class="at">linetype=</span><span class="st">"dashed"</span>) <span class="sc">+</span></span>
+<span id="cb76-12"><a href="#cb76-12" aria-hidden="true" tabindex="-1"></a>  <span class="fu">annotate</span>(<span class="st">"segment"</span>,<span class="at">x=</span><span class="fl">0.4</span>,<span class="at">xend=</span><span class="fl">0.4</span>,<span class="at">y=</span><span class="fu">min</span>(<span class="fu">log</span>(df_bind<span class="sc">$</span>r))<span class="sc">-</span><span class="fl">0.2</span>,<span class="at">yend=</span><span class="fu">max</span>(<span class="fu">log</span>(df_bind<span class="sc">$</span>r))<span class="sc">+</span><span class="fl">0.2</span>,<span class="at">alpha=</span><span class="fl">0.3</span>) <span class="sc">+</span></span>
+<span id="cb76-13"><a href="#cb76-13" aria-hidden="true" tabindex="-1"></a>    <span class="fu">annotate</span>(<span class="st">"segment"</span>,<span class="at">x=</span><span class="dv">1</span><span class="sc">/</span><span class="dv">2</span>,<span class="at">xend=</span><span class="dv">1</span><span class="sc">/</span><span class="dv">2</span>,<span class="at">y=</span><span class="fu">min</span>(<span class="fu">log</span>(df_bind<span class="sc">$</span>r))<span class="sc">-</span><span class="fl">0.2</span>,<span class="at">yend=</span><span class="fu">max</span>(<span class="fu">log</span>(df_bind<span class="sc">$</span>r))<span class="sc">+</span><span class="fl">0.2</span>,<span class="at">alpha=</span><span class="fl">0.3</span>) <span class="sc">+</span></span>
+<span id="cb76-14"><a href="#cb76-14" aria-hidden="true" tabindex="-1"></a>    <span class="fu">annotate</span>(<span class="st">"segment"</span>,<span class="at">x=</span><span class="dv">2</span><span class="sc">/</span><span class="dv">3</span>,<span class="at">xend=</span><span class="dv">2</span><span class="sc">/</span><span class="dv">3</span>,<span class="at">y=</span><span class="fu">min</span>(<span class="fu">log</span>(df_bind<span class="sc">$</span>r))<span class="sc">-</span><span class="fl">0.2</span>,<span class="at">yend=</span><span class="fu">max</span>(<span class="fu">log</span>(df_bind<span class="sc">$</span>r))<span class="sc">+</span><span class="fl">0.2</span>,<span class="at">alpha=</span><span class="fl">0.3</span>) <span class="sc">+</span></span>
+<span id="cb76-15"><a href="#cb76-15" aria-hidden="true" tabindex="-1"></a>  <span class="fu">annotate</span>(<span class="st">"text"</span>,<span class="at">x=</span><span class="dv">1</span>,<span class="at">y=</span><span class="sc">-</span><span class="fl">2.7</span>,<span class="at">label=</span><span class="st">"u"</span>,<span class="at">col=</span><span class="st">"#C11432"</span>) <span class="sc">+</span></span>
+<span id="cb76-16"><a href="#cb76-16" aria-hidden="true" tabindex="-1"></a><span class="fu">scale_color_manual</span>(<span class="at">values =</span> <span class="fu">c</span>(<span class="st">"TRUE"</span> <span class="ot">=</span> <span class="st">"black"</span>,</span>
+<span id="cb76-17"><a href="#cb76-17" aria-hidden="true" tabindex="-1"></a>                                <span class="st">"FALSE"</span><span class="ot">=</span><span class="st">"#C11432"</span>)) <span class="sc">+</span></span>
+<span id="cb76-18"><a href="#cb76-18" aria-hidden="true" tabindex="-1"></a>   <span class="fu">labs</span>(<span class="at">color=</span><span class="fu">TeX</span>(<span class="st">'Above threshold $u$'</span>)) <span class="sc">+</span></span>
+<span id="cb76-19"><a href="#cb76-19" aria-hidden="true" tabindex="-1"></a><span class="fu">facet_wrap</span>(<span class="fu">vars</span>(N)) <span class="sc">+</span> </span>
+<span id="cb76-20"><a href="#cb76-20" aria-hidden="true" tabindex="-1"></a>    <span class="fu">theme_bw</span>() <span class="sc">+</span></span>
+<span id="cb76-21"><a href="#cb76-21" aria-hidden="true" tabindex="-1"></a>  <span class="fu">theme</span>(<span class="at">panel.spacing =</span> <span class="fu">unit</span>(<span class="dv">2</span>, <span class="st">"lines"</span>),</span>
+<span id="cb76-22"><a href="#cb76-22" aria-hidden="true" tabindex="-1"></a>        <span class="at">panel.grid.major =</span> <span class="fu">element_blank</span>(),</span>
+<span id="cb76-23"><a href="#cb76-23" aria-hidden="true" tabindex="-1"></a>        <span class="at">panel.grid.minor =</span> <span class="fu">element_blank</span>(),</span>
+<span id="cb76-24"><a href="#cb76-24" aria-hidden="true" tabindex="-1"></a>        <span class="at">strip.background =</span> <span class="fu">element_blank</span>(),</span>
+<span id="cb76-25"><a href="#cb76-25" aria-hidden="true" tabindex="-1"></a>        <span class="at">panel.border =</span> <span class="fu">element_rect</span>(<span class="at">colour =</span> <span class="st">"black"</span>, <span class="at">fill =</span> <span class="cn">NA</span>))</span></code><button title="Copy to Clipboard" class="code-copy-button"><i class="bi"></i></button></pre></div>
+<div class="cell-output-display">
+<p><img src="GEV_files/figure-html/unnamed-chunk-30-1.png" class="img-fluid" width="672"></p>
+</div>
+</div>
+</section>
+<section id="transformation-to-gumbel-margins" class="level3">
+<h3 class="anchored" data-anchor-id="transformation-to-gumbel-margins">Transformation to Gumbel margins</h3>
+<p>Use PIT to transform Port Pirie data to have Gumbel margins (as motivated by Heffernan and Tawn (2004)).</p>
+<div class="cell">
+<div class="sourceCode cell-code" id="cb77"><pre class="sourceCode r code-with-copy"><code class="sourceCode r"><span id="cb77-1"><a href="#cb77-1" aria-hidden="true" tabindex="-1"></a><span class="co"># create x and y quantile variables</span></span>
+<span id="cb77-2"><a href="#cb77-2" aria-hidden="true" tabindex="-1"></a>U <span class="ot">&lt;-</span> portpirie <span class="sc">%&gt;%</span> <span class="fu">select</span>(SeaLevel,Year) <span class="sc">%&gt;%</span> <span class="fu">arrange</span>(SeaLevel) <span class="sc">%&gt;%</span> <span class="fu">mutate</span>(<span class="at">u=</span><span class="fu">row_number</span>()<span class="sc">/</span>(<span class="fu">nrow</span>(portpirie)<span class="sc">+</span><span class="dv">1</span>))</span>
+<span id="cb77-3"><a href="#cb77-3" aria-hidden="true" tabindex="-1"></a><span class="co"># generate Gumbel margins</span></span>
+<span id="cb77-4"><a href="#cb77-4" aria-hidden="true" tabindex="-1"></a></span>
+<span id="cb77-5"><a href="#cb77-5" aria-hidden="true" tabindex="-1"></a>df <span class="ot">&lt;-</span> portpirie <span class="sc">%&gt;%</span> <span class="fu">left_join</span>((U <span class="sc">%&gt;%</span> <span class="fu">select</span>(Year,u)),<span class="at">by=</span><span class="st">"Year"</span>) </span>
+<span id="cb77-6"><a href="#cb77-6" aria-hidden="true" tabindex="-1"></a>df <span class="ot">&lt;-</span> df <span class="sc">%&gt;%</span> <span class="fu">mutate</span>(<span class="at">Gumbel=</span><span class="sc">-</span><span class="fu">log</span>(<span class="sc">-</span><span class="fu">log</span>(u)))</span>
+<span id="cb77-7"><a href="#cb77-7" aria-hidden="true" tabindex="-1"></a>df <span class="sc">%&gt;%</span> <span class="fu">head</span>()</span></code><button title="Copy to Clipboard" class="code-copy-button"><i class="bi"></i></button></pre></div>
+<div class="cell-output cell-output-stdout">
+<pre><code>  Year SeaLevel          u      Gumbel
+1 1923     4.03 0.63636364  0.79410601
+2 1924     3.83 0.25757576 -0.30486465
+3 1925     3.65 0.06060606 -1.03081883
+4 1926     3.88 0.36363636 -0.01153414
+5 1927     4.01 0.60606061  0.69159781
+6 1928     4.08 0.69696970  1.01884035</code></pre>
+</div>
+<div class="sourceCode cell-code" id="cb79"><pre class="sourceCode r code-with-copy"><code class="sourceCode r"><span id="cb79-1"><a href="#cb79-1" aria-hidden="true" tabindex="-1"></a><span class="fu">ggplot</span>(df)<span class="sc">+</span> <span class="fu">geom_point</span>(<span class="fu">aes</span>(<span class="at">x=</span>Year,<span class="at">y=</span>SeaLevel)) <span class="sc">+</span> <span class="fu">geom_point</span>(<span class="fu">aes</span>(<span class="at">x=</span>Year,<span class="at">y=</span>u),<span class="at">col=</span><span class="st">"#C11432"</span>) <span class="sc">+</span></span>
+<span id="cb79-2"><a href="#cb79-2" aria-hidden="true" tabindex="-1"></a>  <span class="fu">geom_point</span>(<span class="fu">aes</span>(<span class="at">x=</span>Year,<span class="at">y=</span>Gumbel),<span class="at">col=</span><span class="st">"#009ADA"</span>) <span class="sc">+</span></span>
+<span id="cb79-3"><a href="#cb79-3" aria-hidden="true" tabindex="-1"></a>  <span class="fu">theme</span>(<span class="at">aspect.ratio =</span> <span class="dv">1</span>) <span class="sc">+</span> <span class="fu">xlab</span>(<span class="st">"Year"</span>) <span class="sc">+</span> <span class="fu">ylab</span>(<span class="st">"Maximum Sea Level"</span>)</span></code><button title="Copy to Clipboard" class="code-copy-button"><i class="bi"></i></button></pre></div>
+<div class="cell-output-display">
+<p><img src="GEV_files/figure-html/unnamed-chunk-31-1.png" class="img-fluid" width="672"></p>
+</div>
+</div>
 </section>
 </section>
 
